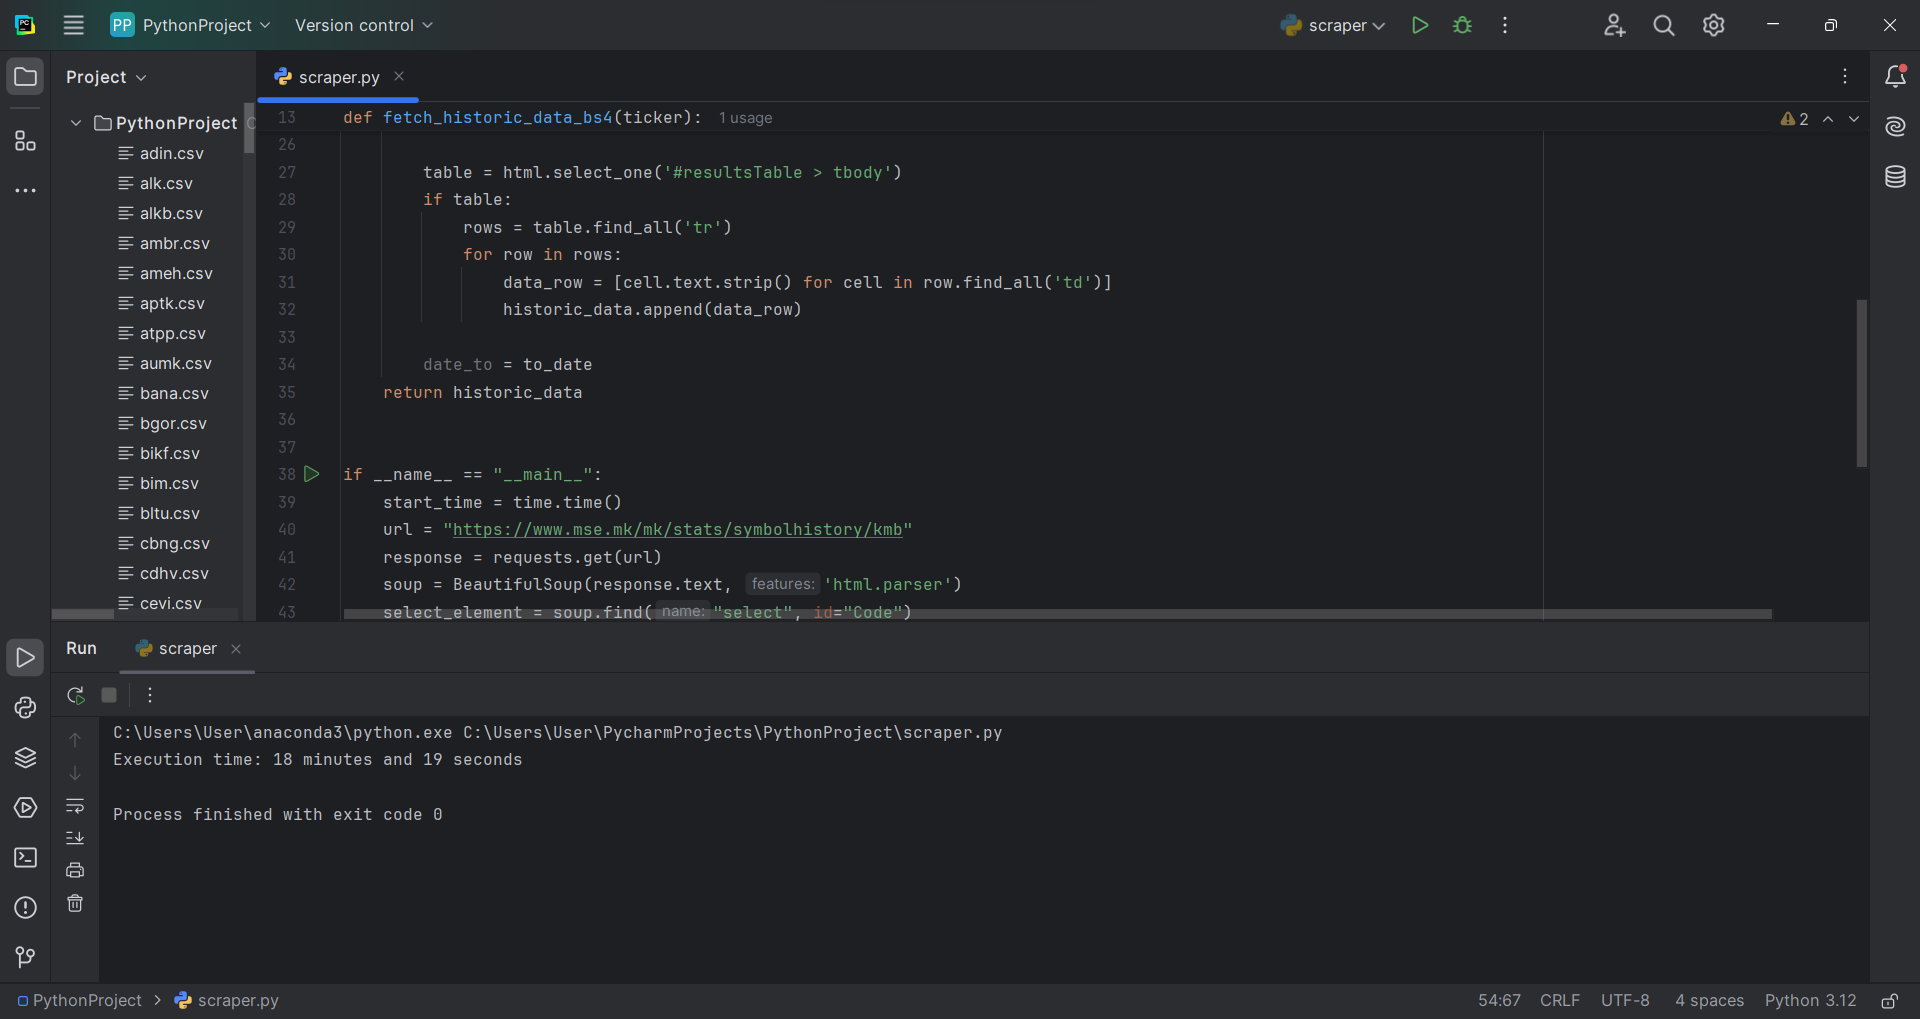
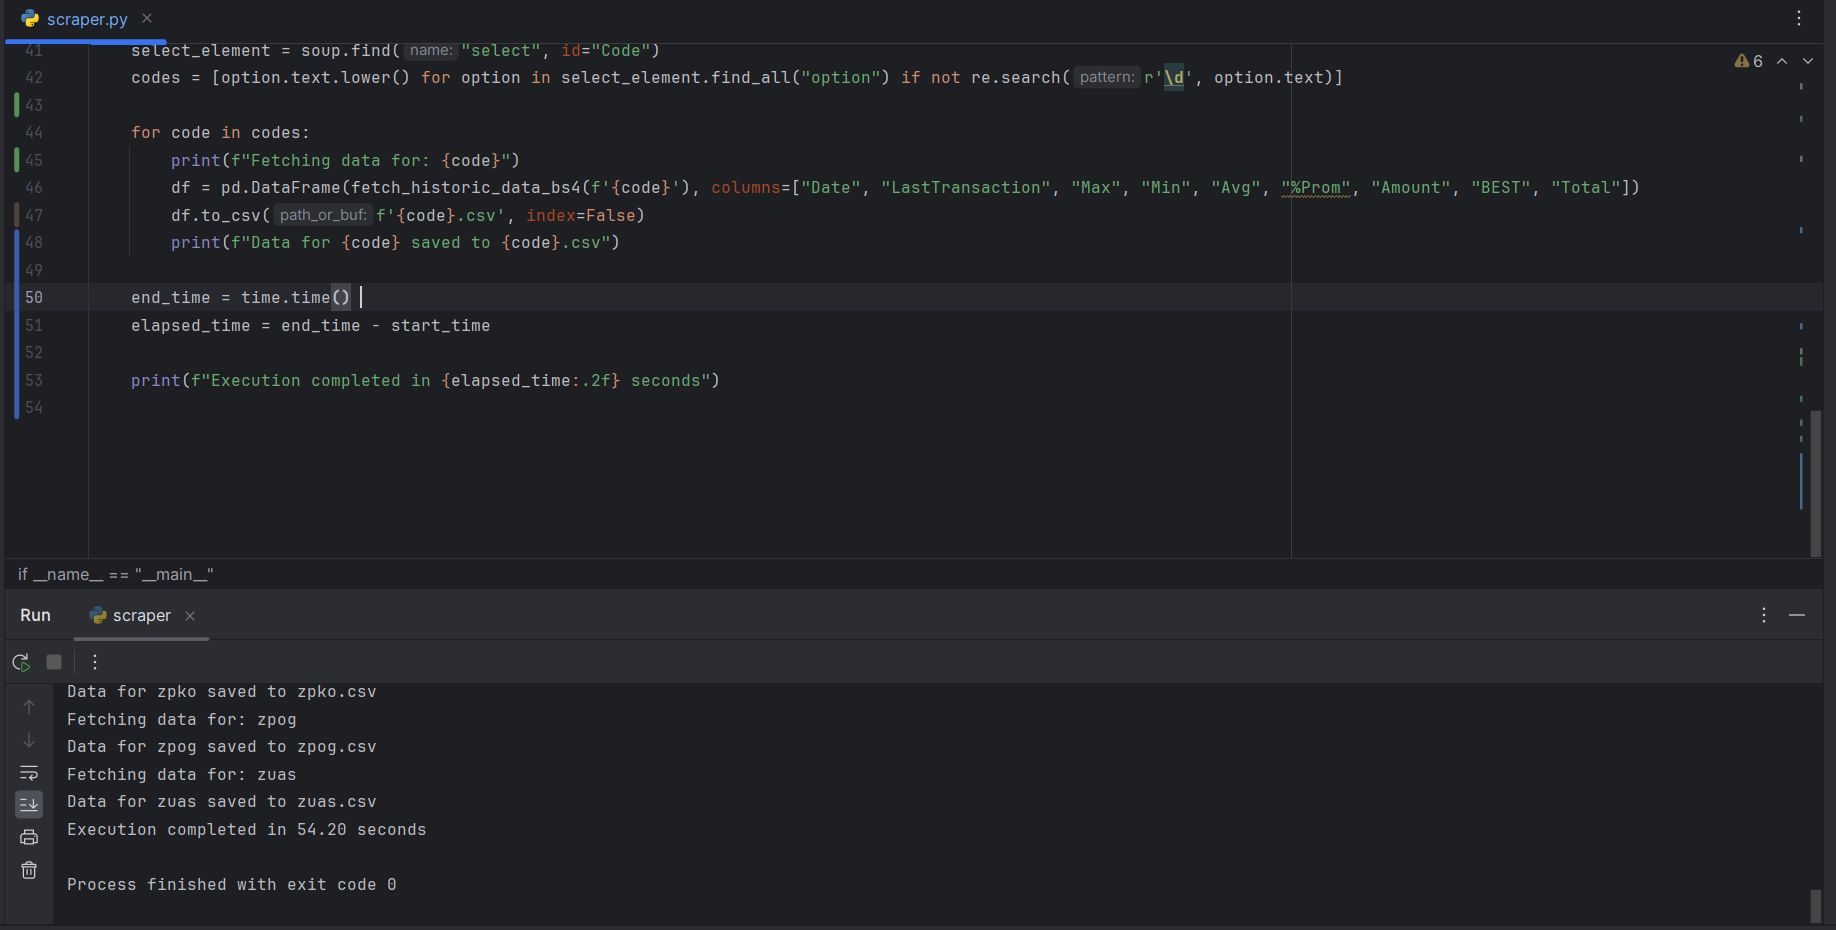
Improved execution time

diff --git a/Homework1/scraper.py b/Homework1/scraper.py
@@ -1,13 +1,11 @@
 from datetime import datetime, timedelta
-
 import pandas as pd
 import requests
 from bs4 import BeautifulSoup
 import re
+import time  # Importing time module for timing
 
 NUM_OF_YEARS = 10
-
-
 
 def fetch_historic_data_bs4(ticker):
     master_url = f"https://www.mse.mk/mk/stats/symbolhistory/{ticker}"
@@ -18,7 +16,7 @@ def fetch_historic_data_bs4(ticker):
         from_date = to_date - timedelta(days=364)
         params = {
             "FromDate": from_date.strftime("%m/%d/%Y"),
-            "ToDate": to_date.strftime("%m/%m/%Y"),
+            "ToDate": to_date.strftime("%m/%d/%Y"),  # Fixed typo in the date format
         }
         response = requests.get(master_url, params=params)
         html = BeautifulSoup(response.text, 'html.parser')
@@ -30,17 +28,26 @@ def fetch_historic_data_bs4(ticker):
                 data_row = [cell.text.strip() for cell in row.find_all('td')]
                 historic_data.append(data_row)
 
-        date_to = to_date
+        to_date = from_date  # Update to_date for the next iteration
     return historic_data
 
-
 if __name__ == "__main__":
+    start_time = time.time()  # Record the start time
+
     url = "https://www.mse.mk/mk/stats/symbolhistory/kmb"
     response = requests.get(url)
     soup = BeautifulSoup(response.text, 'html.parser')
+
     select_element = soup.find("select", id="Code")
     codes = [option.text.lower() for option in select_element.find_all("option") if not re.search(r'\d', option.text)]
+
     for code in codes:
+        print(f"Fetching data for: {code}")
         df = pd.DataFrame(fetch_historic_data_bs4(f'{code}'), columns=["Date", "LastTransaction", "Max", "Min", "Avg", "%Prom", "Amount", "BEST", "Total"])
-        df.to_csv(f'{code}.csv',index=False)
-    print(df)
+        df.to_csv(f'{code}.csv', index=False)
+        print(f"Data for {code} saved to {code}.csv")
+
+    end_time = time.time()
+    elapsed_time = end_time - start_time
+
+    print(f"Execution completed in {elapsed_time:.2f} seconds")
